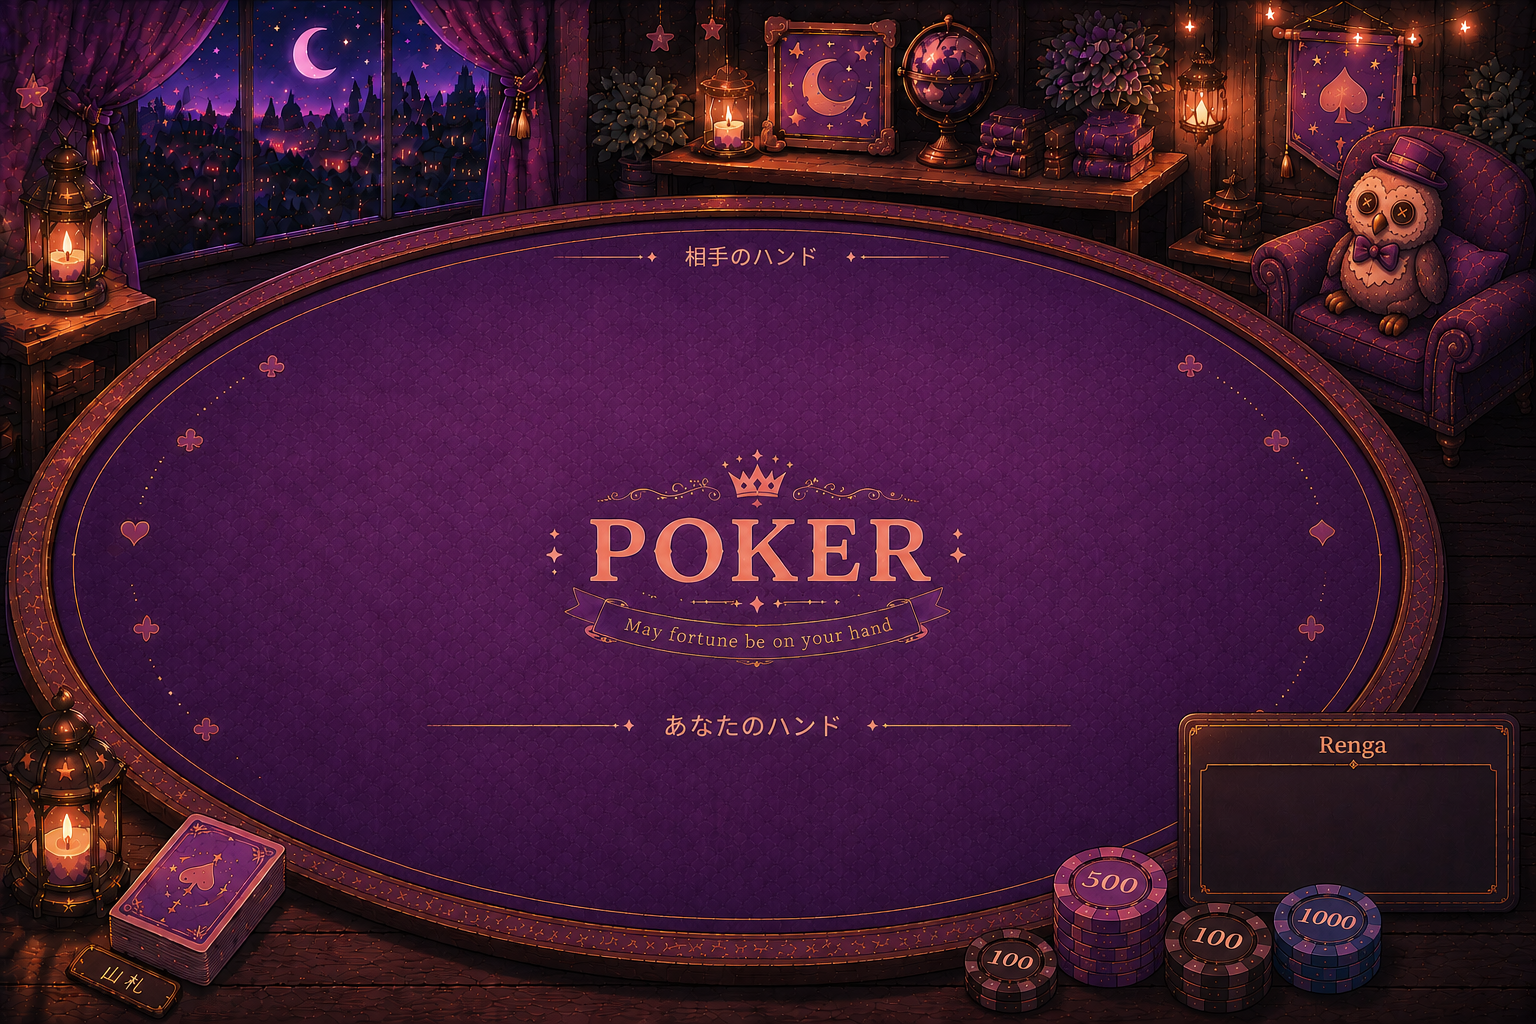
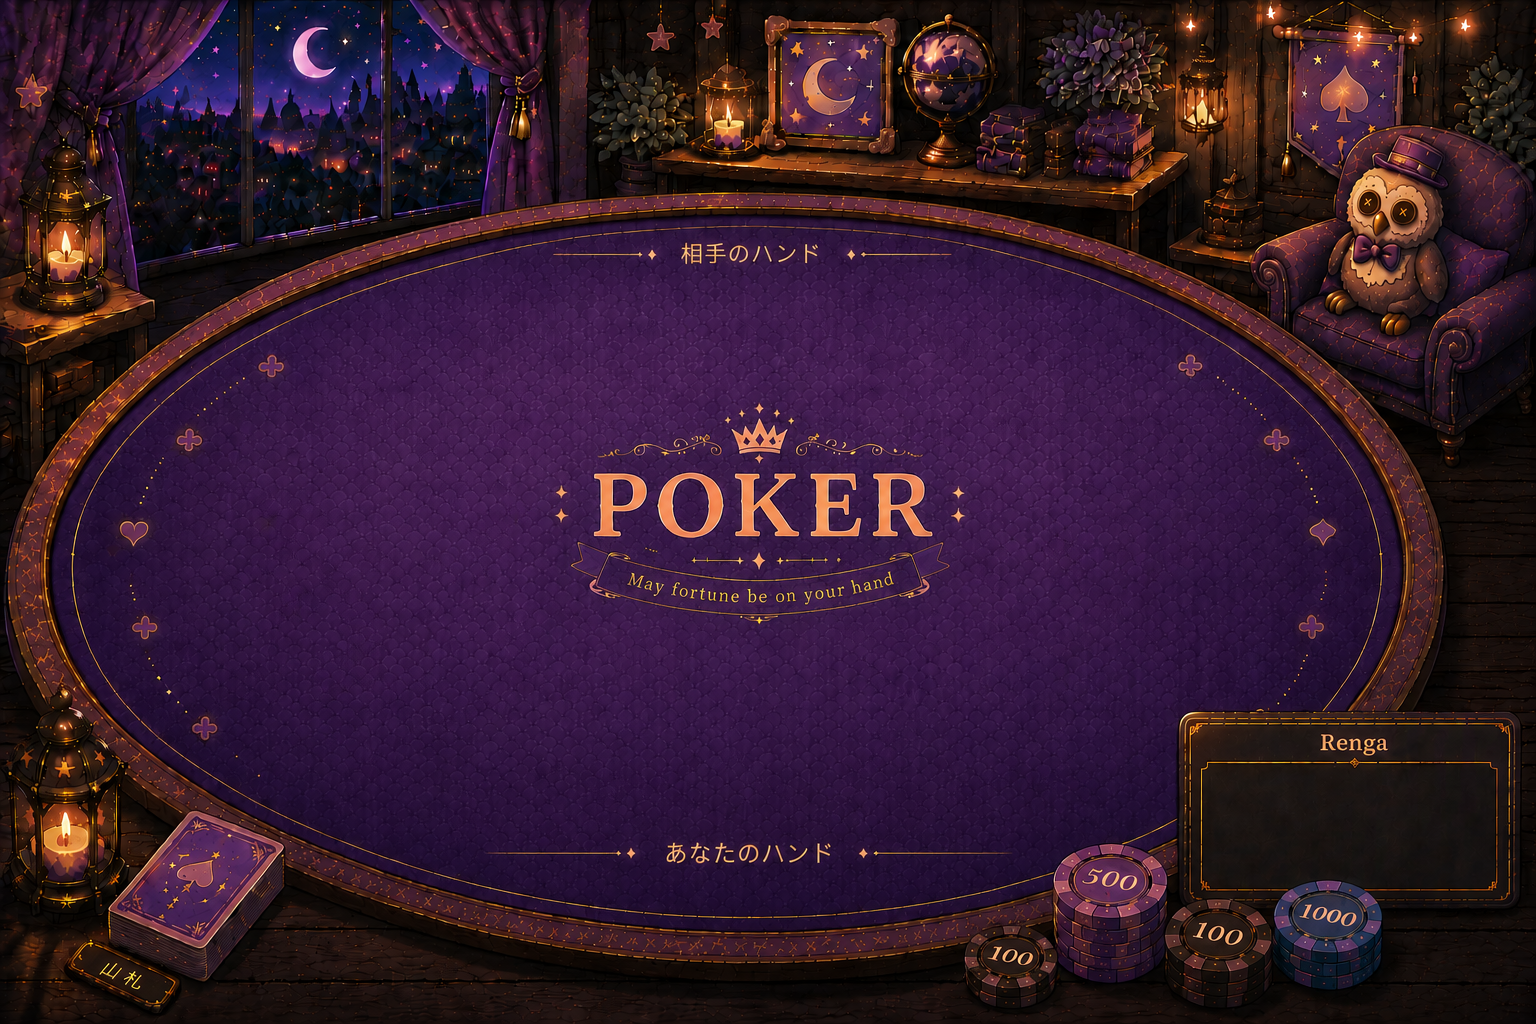
poker

diff --git a/poker/index.html b/poker/index.html
@@ -82,7 +82,7 @@
         <!-- あなたの賭け金表示 -->
          <div id="permanent-bet-display" style="
          position:absolute;
-         bottom:220px;
+         bottom:250px;
          right:0px;
          width:350px;
          color:var(--star-gold);
@@ -203,7 +203,7 @@
     <script>
         class PokerApp {
             constructor() {
-                this.player = new PlayerManager({ renga: 50000, hunger: 100, stress: 0, items: [] });
+                this.player = new PlayerManager({ coins: 1000, hunger: 100, stress: 20, items: [] });
                 // 強制的に50000にリセット（必要な時にコメントアウトを外してください）
                 // this.player.renga = 50000;
                 
@@ -253,6 +253,31 @@
             async confirmBet() {
                 this.syncBetInput(); // 最終確認
                 this.deck = new Deck();
+
+                // 🍷 アルコールボーナス: homeでalcohol 80%以上のとき良カードが出やすくなる
+                try {
+                    const homeRaw = localStorage.getItem('small_house_game_state');
+                    if (homeRaw) {
+                        const homeState = JSON.parse(homeRaw);
+                        const alcohol = homeState.alcohol || 0;
+                        if (alcohol >= 80) {
+                            // デッキ末尾（drawされる側）に高valueカード(8以上)を優先配置
+                            const high = this.deck.cards.filter(c => c.value >= 8);
+                            const low  = this.deck.cards.filter(c => c.value < 8);
+                            // 高カードをランダムに並べてから低カードを下に
+                            const shuffle = arr => {
+                                for (let i = arr.length - 1; i > 0; i--) {
+                                    const j = Math.floor(Math.random() * (i + 1));
+                                    [arr[i], arr[j]] = [arr[j], arr[i]];
+                                }
+                                return arr;
+                            };
+                            // 末尾から引くので: 低カード → 高カードの順に積む
+                            this.deck.cards = [...shuffle(low), ...shuffle(high)];
+                        }
+                    }
+                } catch(e) {}
+
                 this.playerHand = Array.from({length:5}, () => this.deck.draw());
                 this.cpuHands = Array.from({length: this.difficulty === 'Easy' ? 1 : 3}, () => 
                     Array.from({length:5}, () => this.deck.draw())
@@ -586,8 +611,10 @@
             // 初回ロード
             updateStatusBar();
 
-            // ゲーム結果が確定するたびに更新（storage イベントは同一タブでは発火しないので定期的に更新）
-            setInterval(updateStatusBar, 3000);
+            // ゲーム結果が確定するたびに更新（1秒ごとにhomeのlocalStorageから同期）
+            setInterval(updateStatusBar, 1000);
+            // updateRengaから即時呼び出せるようグローバルに公開
+            window.refreshPokerStatusBar = updateStatusBar;
         })();
     </script>
 </body>

diff --git a/poker/ui/style.css b/poker/ui/style.css
@@ -20,16 +20,25 @@ body {
     width: 100%; height: 100vh;
     background-image: url('../assets/poker背景2.png');
     background-size: cover;
-    background-position: center;
+    background-position: center -100px;
     position: relative;
     box-shadow: 0 0 50px rgba(0,0,0,1);
     overflow: hidden;
 }
 
+#game-container {
+    background-position: center -100px;
+}
+
+/* F11時 */
+body.fullscreen-active #game-container {
+    background-position: center center;
+}
+
 /* 音声切り替えボタン */
 #sound-toggle {
     position: absolute;
-    top: 20px;
+    top: 92px;
     right: 20px;
     width: 50px;
     height: 50px;
@@ -78,7 +87,7 @@ body {
 
 #player-hand {
     position: absolute;
-    bottom: 120px;
+    bottom: 140px;
     left: 50%;
     transform: translateX(-50%);
     display: flex;
@@ -98,10 +107,10 @@ body {
     align-items: center;
 }
 
-.cpu-player.pos-0 { top: 15%; left: 15%; transform: rotate(-12deg); }
-.cpu-player.pos-1 { top: 10%; left: 50%; transform: translateX(-50%); }
-.cpu-player.pos-2 { top: 15%; right: 15%; transform: rotate(12deg); }
-.cpu-player.pos-easy { top: 12%; left: 50%; transform: translateX(-50%); }
+.cpu-player.pos-0 { top: 20%; left: 15%; transform: rotate(-12deg); }
+.cpu-player.pos-1 { top: 15%; left: 50%; transform: translateX(-50%); }
+.cpu-player.pos-2 { top: 20%; right: 15%; transform: rotate(12deg); }
+.cpu-player.pos-easy { top: 20%; left: 50%; transform: translateX(-50%); }
 
 .cpu-rank-label {
     background: rgba(0,0,0,0.6);
@@ -114,7 +123,7 @@ body {
 
 .player-rank-label {
     position: absolute;
-    bottom: 270px;
+    bottom: 300px;
     left: 50%;
     transform: translateX(-50%);
     color: var(--star-gold);
@@ -135,7 +144,7 @@ body {
 
 .betting-actions {
     position: absolute;
-    bottom: 50px;
+    bottom: 40px;
     left: 50%;
     transform: translateX(-50%);
     display: flex;
@@ -285,7 +294,7 @@ body {
 /* 常設Renga表示 */
 #permanent-renga-display {
     position: absolute;
-    bottom: 65px;
+    bottom: 95px;
     right: 60px;
     width: auto;
     min-width: 250px;
@@ -311,6 +320,10 @@ body {
         height: 150px;
     }
 
+.fullscreen-active #permanent-bet-display {
+    bottom: 300px;
+    right: 260px;
+}
 
 #game-container:fullscreen #permanent-renga-display,
 #game-container:-webkit-full-screen #permanent-renga-display {
@@ -555,7 +568,4 @@ body {
     filter: drop-shadow(0 0 4px #f7d8ef);
 }
 
-/* ゲームコンテナの上部パディング（ステータスバー分のスペース確保） */
-#game-container .screen {
-    padding-top: 80px;
-}
+

diff --git a/poker/utils/player_manager.js b/poker/utils/player_manager.js
@@ -1,15 +1,23 @@
 /**
  * プレイヤーデータを共通管理するクラス
+ * ※ home の localStorage (small_house_game_state) と同じストアを参照するため
+ *    renga は data.coins にマッピングされる
  */
 class PlayerManager {
     constructor(initialData) {
         const saved = SaveManager.load();
         this.data = saved || initialData;
+
+        // 古いデータ互換: rengaフィールドだけ存在してcoinsがない場合の移行処理
+        if (this.data.renga !== undefined && this.data.coins === undefined) {
+            this.data.coins = this.data.renga;
+        }
     }
 
-    get renga() { return this.data.renga; }
+    // renga は home の coins フィールドと紐づく
+    get renga() { return this.data.coins || 0; }
     set renga(val) {
-        this.data.renga = val;
+        this.data.coins = val;
         this.save();
     }
 

diff --git a/poker/ui/poker_ui.js b/poker/ui/poker_ui.js
@@ -119,6 +119,11 @@ class PokerUI {
         }
 
         this.updateStress(stress);
+
+        // 上部ステータスバーを即時更新（homeのlocalStorageと同期）
+        if (typeof window.refreshPokerStatusBar === 'function') {
+            window.refreshPokerStatusBar();
+        }
     }
 
     updateStress(val) {

diff --git a/poker/utils/save_manager.js b/poker/utils/save_manager.js
@@ -2,7 +2,7 @@
  * データの保存・読み込みを管理する
  */
 const SaveManager = {
-    SAVE_KEY: 'small-house-data',
+    SAVE_KEY: 'small_house_game_state',
 
     load() {
         const data = localStorage.getItem(this.SAVE_KEY);
